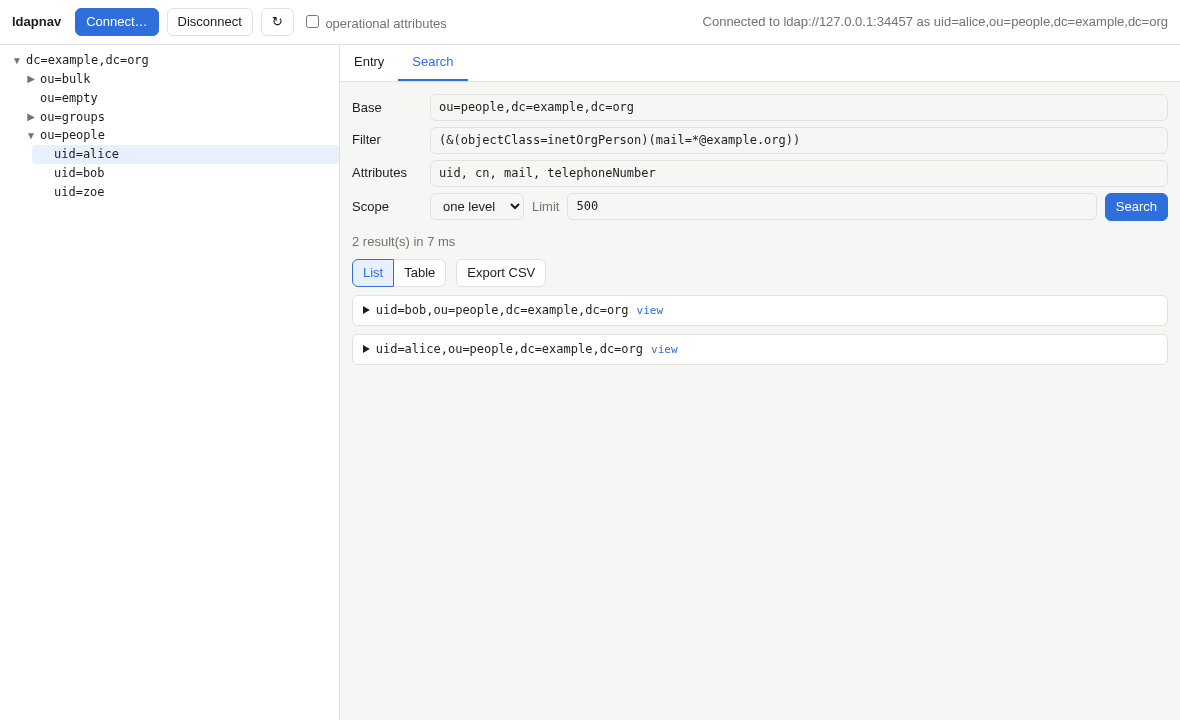
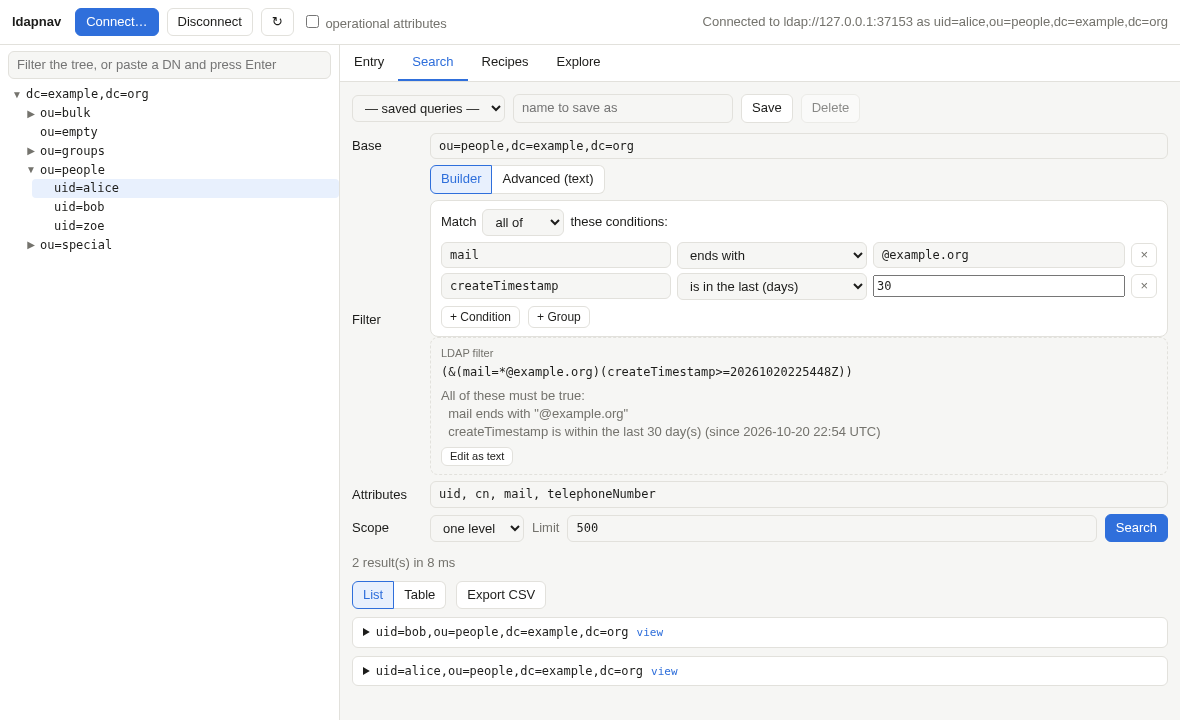
Docs: user manual for the query assistant with screenshots; fix clipped builder rows
The generated screenshots exposed a layout bug: .sform input { width: 100% }
overrode the builder's widths and pushed the operator and value out of view.
Rows now wrap, and the builder test asserts nothing is clipped. Screenshots for
the builder, recipes and explorer are generated by make screenshots.

diff --git a/front/css/style.css b/front/css/style.css
@@ -119,10 +119,9 @@ table.rtable td.dn-cell { overflow-wrap: anywhere; min-width: 280px; }
 .bgroup .bgroup { margin: 6px 0 6px 14px; background: var(--bg); }
 .bhead { display: flex; align-items: center; gap: 6px; margin-bottom: 6px; }
 .bhead .bremove { margin-left: auto; }
-.bcond { display: flex; gap: 6px; align-items: center; margin: 4px 0; }
-.battr { width: 190px; flex: none; }
-.bop { flex: none; max-width: 210px; }
-.bval { flex: 1; min-width: 120px; }
+.bcond { display: flex; flex-wrap: wrap; gap: 6px; align-items: center; margin: 4px 0; }
+.bop { flex: 0 1 190px; min-width: 0; }
+.bremove { flex: none; }
 .bremove { padding: 0 8px; line-height: 22px; color: var(--muted); }
 .bfoot { display: flex; gap: 8px; margin-top: 6px; }
 .badd { font-size: 12px; padding: 2px 8px; }
@@ -157,3 +156,8 @@ progress.pbar { width: 100%; height: 8px; }
 /* saved queries */
 .saved { display: flex; gap: 8px; align-items: center; margin-bottom: 10px; max-width: 900px; flex-wrap: wrap; }
 .saved #qName { width: 220px; }
+
+/* .sform input { width: 100% } is more specific than the builder's own widths */
+.sform .bcond input.battr { width: auto; flex: 1 1 150px; min-width: 120px; max-width: 230px; }
+.sform .bcond .bval { width: auto; flex: 1 1 140px; min-width: 120px; }
+.sform .row label { white-space: nowrap; }

diff --git a/e2e/screenshots_test.go b/e2e/screenshots_test.go
@@ -82,7 +82,17 @@ func TestScreenshots(t *testing.T) {
 		chromedp.Click(`#sOut table.rtable thead th:nth-child(2)`))
 	shot("search-table")
 
-	// 6. Dark theme (follows the system setting).
+	// 5b. Recipes and the explorer.
+	run(t, ctx, chromedp.Click(`button[data-tab="recipes"]`), chromedp.WaitVisible("#recipe-find-person"),
+		set(`#recipe-find-person [data-param="text"]`, "alice"))
+	shot("recipes")
+	run(t, ctx, chromedp.Click(`button[data-tab="explore"]`), chromedp.WaitVisible("#xBase"),
+		set("#xBase", "ou=people,"+slapdtest.BaseDN), set("#xScope", "one"), chromedp.Click("#btnExplore"))
+	waitText(t, ctx, "#xSummary", "Looked at")
+	shot("explore")
+
+	// 6. Dark theme (follows the system setting), on the table again.
+	run(t, ctx, chromedp.Click(`button[data-tab="search"]`))
 	run(t, ctx, emulation.SetEmulatedMedia().WithFeatures([]*emulation.MediaFeature{
 		{Name: "prefers-color-scheme", Value: "dark"}}))
 	shot("search-table-dark")

diff --git a/e2e/ui_test.go b/e2e/ui_test.go
@@ -437,6 +437,14 @@ func TestUIQueryBuilder(t *testing.T) {
 	setVal(t, ctx, 1, "b")
 	waitText(t, ctx, "#bFilter", "(&(mail=*example*)(uid=b*))")
 	waitText(t, ctx, "#bExplain", "All of these must be true:")
+
+	// Layout: every control of every row stays inside the builder box (no clipping).
+	var inside bool
+	js(t, ctx, `(() => { const g = document.querySelector('#builder .bgroup').getBoundingClientRect();
+		return [...document.querySelectorAll('#builder .bcond > *')].every(e => e.getBoundingClientRect().right <= g.right + 1); })()`, &inside)
+	if !inside {
+		t.Error("a condition row overflows the builder box: its operator, value or remove button is clipped")
+	}
 	run(t, ctx, chromedp.Click("#btnSearch"))
 	waitText(t, ctx, "#sOut", "1 result(s)")
 	waitText(t, ctx, "#sOut", "uid=bob,")

diff --git a/docs/USAGE.md b/docs/USAGE.md
@@ -45,23 +45,69 @@ There is one connection at a time. Connecting again replaces the previous one.
 - Tick **operational attributes** to also show the server's operational attributes, such as `entryUUID` or `createTimestamp` on OpenLDAP.
 - Binary values (for example `jpegPhoto`, `objectGUID`, `objectSid`) are shown as `(binary, N bytes)` followed by the first 16 bytes in hex. They cannot be downloaded, previewed or decoded.
 
+### Moving around faster
+
+- **Filter the tree**: type in the box above the tree. Only the nodes you have already opened are searched (use Search for the whole directory); the ancestors of a match stay visible. Escape clears it.
+- **Go to a DN**: paste a DN in that same box and press Enter. It works in any letter case, and the tree opens the branches that lead to the entry.
+- **Follow links**: attributes whose value is a DN (such as `member`, `manager` or `owner`; ldapnav knows them from the server's schema) are links to that entry.
+- **Breadcrumb**: in the entry view, every ancestor in the DN is a link, so one click goes up a level.
+
 ## 4. Searching
 
-![A search shown as a list of entries](img/search-list.png)
+Open the **Search** tab. You never need to write LDAP filter syntax: there are three ways to search, from most to least assisted.
 
-Open the **Search** tab:
+| | |
+|---|---|
+| **Recipes** | Ready-made questions ("Find a person", "Members of a group"...). See section 4.3. |
+| **Builder** | Build the condition with rows of *attribute · operator · value*. The default. See section 4.1. |
+| **Advanced (text)** | Type an RFC 4515 filter yourself. |
+
+The rest of the form is common:
 
 | Field | Meaning |
 |---|---|
 | **Base** | Where to start. Pre-filled with the first base DN after connecting. |
-| **Filter** | An RFC 4515 filter, e.g. `(&(objectClass=person)(mail=*@example.org))`. Empty means `(objectClass=*)`. An invalid filter is rejected before it is sent. |
+| **Filter** | The builder, or the text filter in Advanced mode. |
 | **Attributes** | Comma- or space-separated names to return, e.g. `cn, mail, memberOf`. Empty returns all user attributes. Use `*` for all user attributes and `+` for all operational attributes, e.g. `* +`. |
 | **Scope** | `subtree`, `one level` or `base only`. |
 | **Limit** | Maximum number of entries (default 500). A value that is zero, empty or above 10000 falls back to 500. |
 
 Press **Search** or Enter in any field. Results are collapsible; click **view** to open an entry in the Entry tab. A single result opens automatically.
 
-### Results: list, table and CSV
+### 4.1 The query builder
+
+![The query builder with its live filter preview](img/builder.png)
+
+- Each row is a condition: pick an **attribute** (the box suggests the attributes your server really has, user attributes first), an **operator** and a **value**.
+- **The operators depend on the attribute.** Text offers *is*, *is not*, *contains*, *starts with*, *ends with*, *matches pattern (use \*)*, *exists* and *does not exist*. Dates offer *is after*, *is before* and *is in the last (days)* with a date picker (times are converted to UTC). Numbers offer *is at least* / *is at most*. Yes/no attributes offer a true/false choice. Binary attributes only offer *exists*. If the server has no rule to compare an attribute in some way (for example OpenLDAP's `shadowExpire` cannot be ordered), that operator is not offered, instead of returning misleading results.
+- For `objectClass` the value box suggests the object classes of the server.
+- **Match all of / any of / none of** decides how the rows combine. **+ Group** adds a nested group, for example *all of: mail contains example, and any of: (uid is alice, uid is bob)*.
+- Below the rows you always see the **LDAP filter** that will be sent and a **plain-language explanation** of it, updated as you type. Special characters in values (`( ) * \`) are escaped for you, so what you type is always taken literally (use the *pattern* operator if you want `*` as a wildcard).
+- Mistakes are explained before you search, for example an attribute that does not exist on the server.
+- **Edit as text** copies the filter to the Advanced mode so you can refine it by hand.
+
+### 4.2 Saved queries
+
+Above the form, **Save** stores the current search under a name for the current connection profile: base, scope, attributes, limit and either the builder conditions or the text filter. Choosing it from the list puts everything back in the form (it does not run it; press Search). **Delete** removes it. They are kept in `queries.json` next to `profiles.json` and never contain credentials. A connection that is not a saved profile keeps its queries under its URL.
+
+### 4.3 Recipes
+
+![The Recipes tab](img/recipes.png)
+
+The **Recipes** tab offers ready-made questions in four groups: *People* (find a person by name, login or email; people without an email; people in a department), *Groups* (members of a group; groups a user belongs to), *Accounts* (locked or disabled; expired; created or changed in the last N days) and *Explore* (entries of an object class; entries that have, or lack, an attribute).
+
+- Fill in the few parameters and press **Use this recipe**: it opens in the builder, so you can see and tweak how it works, and runs immediately.
+- Recipes are **built from your server's schema**: a recipe only uses attributes the server defines (for example *Find a person* matches `uid` on OpenLDAP and `sAMAccountName` on Active Directory). One the server cannot answer is shown greyed out with the reason, such as *Locked or disabled accounts* on a server without `nsAccountLock` or `pwdAccountLockedTime`.
+
+### 4.4 Exploring a branch
+
+![The Explore tab](img/explore.png)
+
+Not sure what is in a branch? **Explore** looks at up to a number of entries below a base (the selected tree node by default) and shows which **kinds of entries** (object classes) and which **attributes** are really in use, with counts. Click any of them to search for those entries.
+
+### 4.5 Results: list, table and CSV
+
+![A search shown as a list of entries](img/search-list.png)
 
 Above the results there are two views, **List** and **Table**, and an **Export CSV** button. The chosen view is remembered for the next search.
 
@@ -114,7 +160,11 @@ The 3-minute default is deliberate: browsers throttle timers in background tabs,
 | Base DN auto-detection from the RootDSE | Supported. |
 | Tree browsing with paging | Supported. |
 | Entry view, operational attributes, binary summary, UTF-8 values | Supported. |
-| Searches: filter, scopes, attribute list, limit, paging, server size limits | Supported. |
+| Searches: visual builder with live filter and explanation, text filter, scopes, attribute list, limit, paging, server size limits | Supported. |
+| Recipes and branch explorer | Supported. Recipes adapt to the server's schema; tested against OpenLDAP. |
+| Saved queries per profile | Supported. |
+| Tree filter, go to DN, DN links, breadcrumb | Supported. |
+| Results as a sortable table with CSV export | Supported. |
 | Saved profiles (no password) | Supported. |
 | Passwords in the system keychain | macOS Keychain and Windows Credential Manager: supported and tested in CI. Linux (Secret Service): the library supports it but ldapnav is not tested against it. |
 | Dark and light theme (follows the system) | Supported. |
@@ -130,7 +180,7 @@ The 3-minute default is deliberate: browsers throttle timers in background tabs,
 
 ### Servers
 
-Tested against OpenLDAP 2.5, 2.6 and 2.7 only. Microsoft Active Directory and other servers should work for browsing and searching (the protocol operations are standard) but have **not** been tested. Known AD difference: no children hints, so every node shows ▶.
+Tested against OpenLDAP 2.5, 2.6 and 2.7 only. The account recipes for 389 Directory Server (`nsAccountLock`, `passwordExpirationTime`) and for the OpenLDAP ppolicy overlay are checked against synthetic schemas, not against those real servers. Microsoft Active Directory and other servers should work for browsing and searching (the protocol operations are standard) but have **not** been tested. Known AD difference: no children hints, so every node shows ▶.
 
 ## 9. What is not supported
 
@@ -139,7 +189,7 @@ Tested against OpenLDAP 2.5, 2.6 and 2.7 only. Microsoft Active Directory and ot
 - **Client certificates** (mutual TLS) and **custom CA bundles**: server certificates are checked against the system trust store, or not at all with *Skip certificate verification*.
 - **Referrals** are not followed.
 - **Several connections or sessions at once**; a second browser tab shares the same connection.
-- **LDIF or JSON export**, importing, saved searches or search history. (CSV export is supported.)
+- **LDIF or JSON export**, importing, and search history. (CSV export and saved queries are supported.)
 - **Schema browsing**, ACL inspection, and decoding of binary attributes (no image preview, no GUID/SID formatting).
 - **Server-side sorting, virtual list view and other LDAP controls.**
 - **Proxy settings**: connections are direct.

diff --git a/CLAUDE.md b/CLAUDE.md
@@ -4,9 +4,13 @@ A minimal, read-only LDAP browser. A single Go binary that serves an embedded we
 
 ## Structure
 - `main.go`: HTTP server, JSON API under `/api/*`, LDAP client (github.com/go-ldap/ldap/v3) and keychain access (github.com/zalando/go-keyring).
-- `discovery.go` + `internal/ldapschema`: read-only server discovery for the query assistant (RootDSE and flavor, parsed schema with attribute syntaxes and matching rules, attribute usage sampling). Roadmap: `docs/ROADMAP.md`.
+- Query assistant (all read-only; roadmap and status in `docs/ROADMAP.md`):
+  - `discovery.go` + `internal/ldapschema`: RootDSE and server flavor, parsed schema (attribute syntaxes, matching rules, object classes), attribute usage sampling. The schema is cached per connection in `sess` together with name indexes.
+  - `filterapi.go` + `internal/ldapfilter`: `POST /api/filter` builds, escapes, validates against the schema and explains an LDAP filter from a tree of conditions. It is the ONLY place filters are built from user input: never concatenate user text into a filter anywhere else.
+  - `recipesapi.go` + `internal/recipes`: ready-made queries built from what the server's schema defines; unavailable ones carry the reason.
+  - `queries.go`: saved queries per profile in `queries.json` (atomic write, 0600, never credentials, a corrupt file is reported and never overwritten).
 - `front/`: the web UI, plain HTML + CSS + native ES modules. No build step, no bundler, no framework, no npm dependencies. No authentication in the UI (the URL-fragment token is the only gate).
-  - `index.html`, `css/style.css`, `js/*.js` (one module per concern: `api`, `tree`, `entry`, `search`, `results`, `profiles`, `connection`, `tabs`, `status`; `table.js` is pure logic (columns, sorting, CSV) with no DOM access; `app.js` wires them; modules talk through the tiny bus in `events.js`, not by importing each other in circles).
+  - `index.html`, `css/style.css`, `js/*.js` (one module per concern: `api`, `tree`, `entry`, `search`, `results`, `builder`, `recipes`, `explore`, `savedqueries`, `schema`, `profiles`, `connection`, `tabs`, `status`; pure logic with no DOM access and node tests: `table.js` (columns, sorting, CSV), `builder-model.js` (operators per attribute type, conversion to the API query), `nav.js` (DN splitting honouring escapes, ancestors, tree filter matching); `app.js` wires them; modules talk through the tiny bus in `events.js`, not by importing each other in circles).
   - Strict CSP (`script-src 'self'; style-src 'self'`): no inline `<script>`, `<style>`, `style=` attributes or `on*=` handlers, no `setAttribute("style")`, no `innerHTML`, no `eval`. Use CSS classes. Tests enforce it.
   - Only `front/index.html`, `front/css` and `front/js` are embedded; `front/test` (Node unit tests) is not.
 - `Makefile` + `Info.plist`: packaging as a macOS `.app`.
@@ -36,8 +40,9 @@ A minimal, read-only LDAP browser. A single Go binary that serves an embedded we
 - `hack/ci-test.sh` is what validates a PR; `hack/Dockerfile.test` runs it in a reproducible environment (`make test-docker`); `hack/smoke.sh <binary>` smoke-tests a built binary.
 - CI (`.github/workflows/ci.yml`) has one job per OS (no conditionals) and sets `LDAPNAV_REQUIRE_SLAPD=1`: without slapd the run fails instead of skipping. Linux: test container; macOS: Homebrew openldap; Windows: Ubuntu slapd in WSL1 (macOS runners have no Docker; Windows runners only run Windows containers). Do not add tests that skip silently, and do not make a failing environment skip to turn CI green.
 - Pure JavaScript logic that grows in the UI (value formatting, CSV export, table sorting) goes in its own module with unit tests run by `node --test` (no npm dependencies; Node is dev tooling only, never shipped).
+- A layout bug is a bug: check that controls are not clipped (the builder test asserts it) and regenerate the screenshots after visible UI changes; they already exposed one clipped row.
 - Every behavior change comes with a test. `main()` only wires things up; the HTTP logic lives in `newHandler` so it can be tested with `httptest`.
-- Not verified yet against real AD or production OpenLDAP servers; say explicitly what could not be tested from this environment (macOS keychain, `.app`, Windows Credential Manager).
+- Real servers differ: the account recipes (`nsAccountLock`, `passwordExpirationTime`, ppolicy) are only checked against synthetic schemas, and OpenLDAP's `shadowExpire` has no ordering rule (the builder refuses `<`/`>` on it). Not verified yet against real AD or production OpenLDAP servers; say explicitly what could not be tested from this environment (macOS keychain, `.app`, Windows Credential Manager).
 
 ## Docs
 - Screenshots in `docs/img` are generated from the real UI by `e2e/screenshots_test.go` (`make screenshots`, needs Docker). Regenerate them in the same commit as any visible UI change; never edit them by hand.

diff --git a/docs/ROADMAP.md b/docs/ROADMAP.md
@@ -9,10 +9,10 @@ Design rule: logic lives in Go (tested against a real OpenLDAP in CI); pure Java
 | 0 | Test foundation: real-OpenLDAP harness (`internal/slapdtest`), browser tests (`e2e/`), CI on Linux, macOS and Windows | Done |
 | 1 | Server discovery: RootDSE and server flavor, schema (attribute syntaxes and matching rules, object classes), attribute usage sampling (API: `/api/server`, `/api/schema`, `/api/sample`) | API done; the UI starts using it in phase 3 |
 | 2 | Results table: choose columns, sort, export CSV | Done |
-| 3 | Query builder: rows of attribute · operator · value with AND/OR, live filter preview with correct escaping, plain-language explanation, attribute autocomplete from the schema, value inputs that fit the attribute syntax (date picker, TRUE/FALSE, DN picker) | Planned |
-| 4 | Recipes (only those the server supports, detected from the schema): find people, group membership (`member`, `uniqueMember`, `memberUid`, `memberOf` where present), account status (`nsAccountLock`, `pwdAccountLockedTime`, `shadowExpire`, timestamps), explore an unknown branch (object-class histogram and attribute usage, click to build a query) | Planned |
-| 5 | Saved queries per profile (a file next to `profiles.json`, never with passwords) | Planned |
-| 6 | Navigation: quick filter in the tree, jump to the entry from DN values (`member`, `manager`, `owner`), breadcrumb | Planned |
+| 3 | Query builder (done): rows of attribute · operator · value with AND/OR, live filter preview with correct escaping, plain-language explanation, attribute autocomplete from the schema, value inputs that fit the attribute syntax (date picker, TRUE/FALSE, DN picker) | Done |
+| 4 | Recipes (done; only those the server supports, detected from the schema): find people, group membership (`member`, `uniqueMember`, `memberUid`, `memberOf` where present), account status (`nsAccountLock`, `pwdAccountLockedTime`, `shadowExpire`, timestamps), explore an unknown branch (object-class histogram and attribute usage, click to build a query) | Done |
+| 5 | Saved queries per profile (a file next to `profiles.json`, never with passwords) | Done |
+| 6 | Navigation: quick filter in the tree, go to a DN, jump to the entry from DN values (`member`, `manager`, `owner`), breadcrumb | Done |
 
 Not planned: write operations, ACL inspection, SASL. Client-certificate TLS (mTLS) only if it turns out to be needed.
 

diff --git a/README.md b/README.md
@@ -4,8 +4,9 @@ A minimal, read-only LDAP browser for macOS and Windows. A single Go binary that
 
 ![ldapnav browsing a directory](docs/img/browse.png)
 
-- Browsable tree (double-click or ▶ to expand, click to view attributes)
-- Searches with base, filter, scope, attributes and limit (paged)
+- Browsable tree (double-click or ▶ to expand, click to view attributes), with a quick filter, "go to DN", links on DN-valued attributes and a breadcrumb
+- **Assisted searches, no LDAP knowledge needed**: a visual query builder (attribute suggestions from the server's schema, operators and inputs that fit each attribute, live filter preview with a plain-language explanation), ready-made recipes adapted to the server ("find a person", "members of a group", "locked accounts"...), and an explorer that shows what a branch contains
+- Searches with base, filter (builder or text), scope, attributes and limit (paged); results as a list or a sortable table with CSV export; saved queries per profile
 - Optional operational attributes; binary values are shown as a hex summary
 - Profiles saved in `~/Library/Application Support/ldapnav/profiles.json` on macOS (no password); the equivalent user config directory on other systems
 - Optional password in the system keychain (Keychain on macOS, Credential Manager on Windows, Secret Service on Linux) via `go-keyring`; service `ldapnav`, account `bindDN@url`
